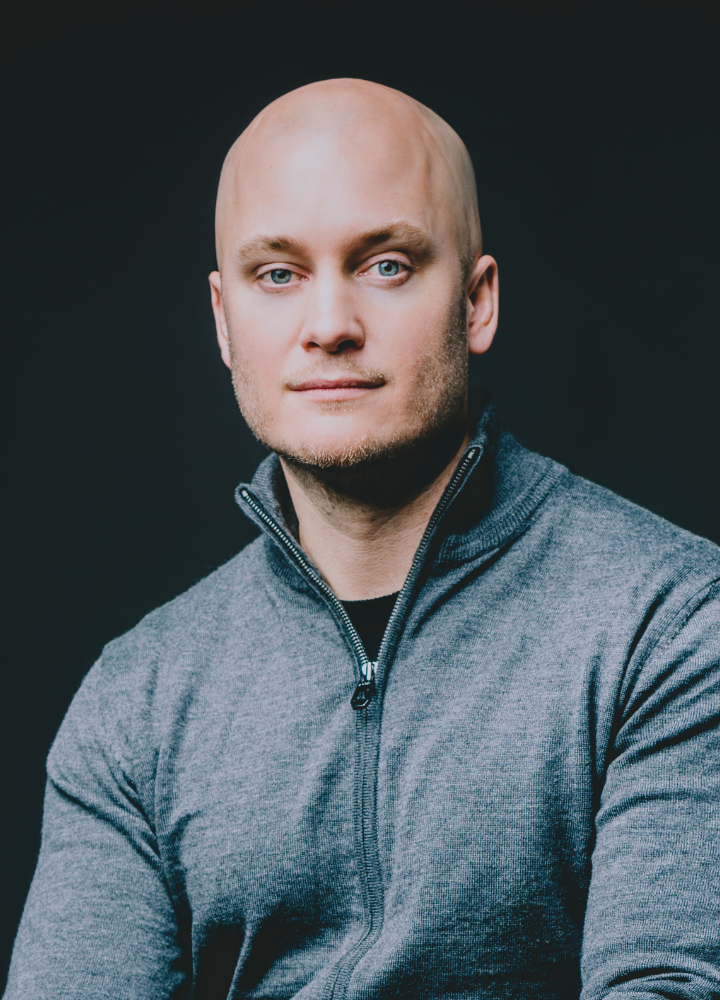
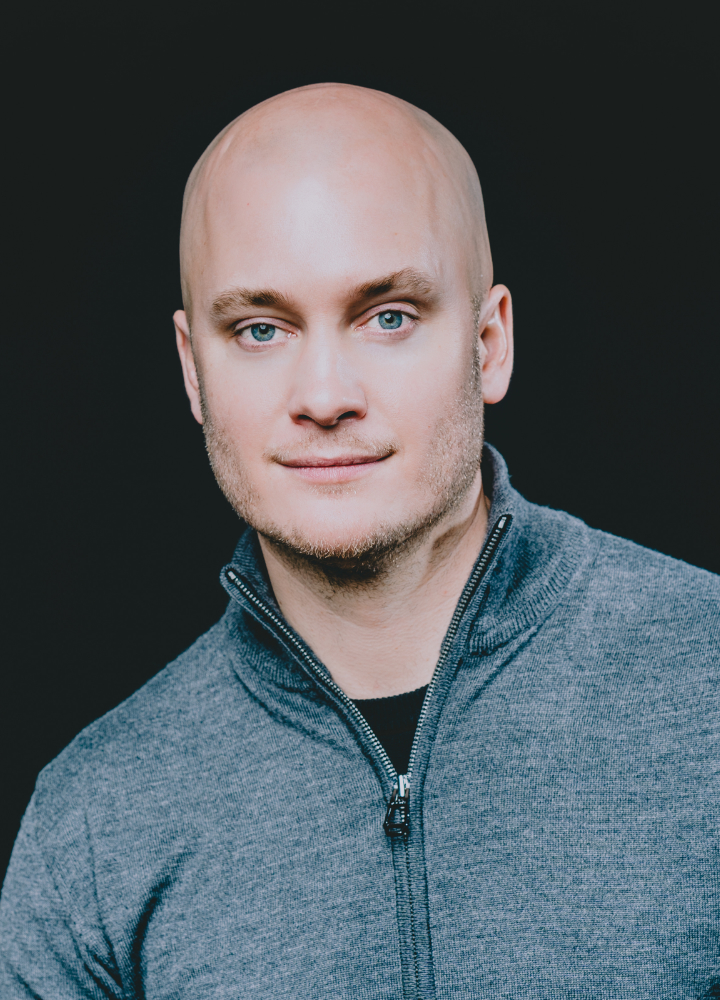
layout tweak and profile photo update

diff --git a/css/screen.css b/css/screen.css
@@ -146,7 +146,7 @@ h1, h2, h3 {
 
 /* Section: Projects */
 .projects article {
-  margin-bottom: 20rem;
+  margin-bottom: 14rem;
 }
 .projects article:last-child {
   margin-bottom: 16rem;
@@ -660,6 +660,7 @@ Media Queries
   /* Header */
   #header {
     min-width: 48rem;
+    margin-bottom: 8rem;
   }
   #header section {
     margin-top: 3rem;
@@ -690,6 +691,9 @@ Media Queries
   }
 
   /* Section: Projects */
+  .projects article {
+    margin-bottom: 10rem;
+  }
   .projects header {
     width: 43rem;
   }
